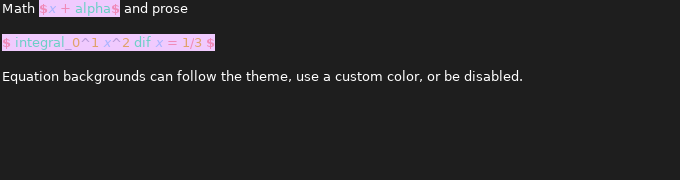
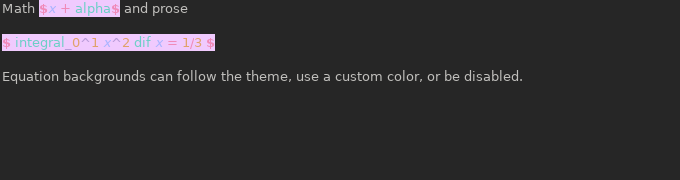
fix: preserve editor palette when customizing equation backgrounds

Changed region(s): [[0.0, 0.3889, 0.7721, 0.4722], [0.1853, 0.0278, 0.2779, 0.0833], [0.0, 0.0278, 0.0618, 0.0833]]

diff --git a/native/gtk/src/ui/equation_style.rs b/native/gtk/src/ui/equation_style.rs
@@ -2,32 +2,82 @@
 use super::model::UiSettings;
 use gtk::gdk;
 
+pub fn parse_color(color: &str) -> Option<gdk::RGBA> {
+    if color.trim().eq_ignore_ascii_case("transparent") {
+        Some(gdk::RGBA::TRANSPARENT)
+    } else {
+        gdk::RGBA::parse(color.trim()).ok()
+    }
+}
+
 pub fn customized_scheme(
     base: &sourceview5::StyleScheme,
     settings: &UiSettings,
 ) -> Option<sourceview5::StyleScheme> {
-    let color = if !settings.equation_highlighting {
-        gdk::RGBA::TRANSPARENT
+    let requested = if !settings.equation_highlighting {
+        None
     } else {
-        gdk::RGBA::parse(settings.equation_highlight_color.trim()).ok()?
+        Some(parse_color(&settings.equation_highlight_color)?)
     };
+    // An empty local style clears the inherited background. Transparent
+    // GtkTextTag backgrounds are painted as black by GTK's Cairo renderer.
+    let background_attribute = match requested.filter(|color| color.alpha() > 0.0) {
+        None => String::new(),
+        Some(color) => {
+            let alpha = color.alpha();
+            let paper = base.style("text")?.background()?;
+            let paper = paper
+                .strip_prefix('#')
+                .filter(|value| value.starts_with("rgb"))
+                .unwrap_or(paper.as_str());
+            let background = gdk::RGBA::parse(paper).ok()?;
+            // Blend alpha before GTK creates its opaque text background tag.
+            let component = |ink: f32, paper: f32| {
+                ((ink * alpha + paper * (1.0 - alpha)) * 255.0).round() as u8
+            };
+            format!(
+                " background=\"#{:02x}{:02x}{:02x}\"",
+                component(color.red(), background.red()),
+                component(color.green(), background.green()),
+                component(color.blue(), background.blue())
+            )
+        }
+    };
+    let metadata: String = ["variant", "light-variant", "dark-variant"]
+        .iter()
+        .filter_map(|name| {
+            base.metadata(name).map(|value| {
+                format!(
+                    "<property name=\"{name}\">{}</property>",
+                    glib::markup_escape_text(&value)
+                )
+            })
+        })
+        .collect();
+    // GtkSourceView generates widget CSS from the child scheme's own text
+    // style. Copy both colors explicitly so prose keeps the base palette.
+    let text_style = base.style("text")?;
+    let text_foreground = text_style
+        .foreground()
+        .map(|value| format!(" foreground=\"{}\"", glib::markup_escape_text(&value)))
+        .unwrap_or_default();
+    let text_background = text_style
+        .background()
+        .map(|value| format!(" background=\"{}\"", glib::markup_escape_text(&value)))
+        .unwrap_or_default();
     let directory = tempfile::tempdir().ok()?;
-    // GtkSourceView recognizes hexadecimal colors, but interprets rgb()/rgba()
-    // strings as named scheme colors. Canonical hex also cannot inject XML.
-    let color = format!(
-        "#{:02x}{:02x}{:02x}{:02x}",
-        (color.red() * 255.0).round() as u8,
-        (color.green() * 255.0).round() as u8,
-        (color.blue() * 255.0).round() as u8,
-        (color.alpha() * 255.0).round() as u8,
-    );
     let xml = format!(
         r#"<?xml version="1.0"?>
 <style-scheme id="typsmthng-custom-equations" name="Custom equations" version="1.0" parent-scheme="{}">
-  <style name="typst:math" background="{}"/>
+  <metadata>{}</metadata>
+  <style name="text"{}{}/>
+  <style name="typst:math"{}/>
 </style-scheme>"#,
         base.id(),
-        color,
+        metadata,
+        text_foreground,
+        text_background,
+        background_attribute,
     );
     std::fs::write(directory.path().join("equations.xml"), xml).ok()?;
     let manager = sourceview5::StyleSchemeManager::new();
@@ -48,12 +98,7 @@ mod tests {
     use super::*;
     use sourceview5::prelude::*;
 
-    fn capture_if_requested(window: &gtk::Window, editor: &sourceview5::View, name: &str) {
-        let Some(directory) = std::env::var_os("TYPSMTHNG_SNAPSHOT_DIR") else {
-            return;
-        };
-        let directory = std::path::PathBuf::from(directory);
-        std::fs::create_dir_all(&directory).unwrap();
+    fn rendered_texture(window: &gtk::Window, editor: &sourceview5::View) -> gdk::Texture {
         let context = glib::MainContext::default();
         let until = std::time::Instant::now() + std::time::Duration::from_millis(60);
         while std::time::Instant::now() < until {
@@ -69,14 +114,57 @@ mod tests {
             .renderer()
             .unwrap()
             .render_texture(frame.to_node().unwrap(), None)
-            .save_to_png(directory.join(name))
-            .unwrap();
+    }
+
+    fn capture_if_requested(texture: &gdk::Texture, name: &str) {
+        let Some(directory) = std::env::var_os("TYPSMTHNG_SNAPSHOT_DIR") else {
+            return;
+        };
+        let directory = std::path::PathBuf::from(directory);
+        std::fs::create_dir_all(&directory).unwrap();
+        texture.save_to_png(directory.join(name)).unwrap();
+    }
+
+    fn background_pixel(
+        texture: &gdk::Texture,
+        editor: &sourceview5::View,
+        offset: i32,
+    ) -> [u8; 4] {
+        let rectangle = editor.iter_location(&editor.buffer().iter_at_offset(offset));
+        let (x, y) = editor.buffer_to_window_coords(
+            gtk::TextWindowType::Widget,
+            rectangle.x() + rectangle.width() / 2,
+            rectangle.y() + rectangle.height() / 2,
+        );
+        let mut pixels = vec![0; (texture.width() * texture.height() * 4) as usize];
+        let stride = texture.width() as usize * 4;
+        texture.download(&mut pixels, stride);
+        pixels[y as usize * stride + x as usize * 4..][..4]
+            .try_into()
+            .unwrap()
+    }
+
+    fn prose_pixels(texture: &gdk::Texture, editor: &sourceview5::View) -> Vec<u8> {
+        let end = editor.iter_location(&editor.buffer().iter_at_offset(4));
+        let (width, _) =
+            editor.buffer_to_window_coords(gtk::TextWindowType::Widget, end.x() + end.width(), 0);
+        let stride = texture.width() as usize * 4;
+        let mut pixels = vec![0; stride * texture.height() as usize];
+        texture.download(&mut pixels, stride);
+        pixels
+            .chunks_exact(stride)
+            .take(end.height() as usize)
+            .flat_map(|row| row[..width as usize * 4].iter().copied())
+            .collect()
     }
 
     #[test]
     #[ignore = "requires a display; run one exact filter under Xvfb"]
     fn native_equation_background_settings_preserve_token_styles() {
         adw::init().unwrap();
+        gtk::Settings::default()
+            .unwrap()
+            .set_gtk_enable_animations(false);
         super::super::install_css();
         sourceview5::init();
         let schemes = sourceview5::StyleSchemeManager::default();
@@ -104,25 +192,34 @@ mod tests {
             assert!(customized_scheme(&base, &UiSettings::default()).is_none());
             buffer.set_style_scheme(Some(&base));
             buffer.ensure_highlight(&buffer.start_iter(), &buffer.end_iter());
-            capture_if_requested(
-                &highlighted_window,
-                &highlighted_editor,
-                &format!("{id}-equations-default.png"),
-            );
-            for (enabled, custom, expected) in
-                [(false, "", "rgba(0,0,0,0)"), (true, "#f0cafe", "#f0cafe")]
-            {
+            let baseline = rendered_texture(&highlighted_window, &highlighted_editor);
+            let prose_background = background_pixel(&baseline, &highlighted_editor, 4);
+            capture_if_requested(&baseline, &format!("{id}-equations-default.png"));
+            let background = base.style("text").unwrap().background().unwrap();
+            for (enabled, custom, expected) in [
+                (false, "", background.as_str()),
+                (true, "transparent", background.as_str()),
+                (true, "#f0cafe", "#f0cafe"),
+            ] {
                 let settings = UiSettings {
                     equation_highlighting: enabled,
                     equation_highlight_color: custom.into(),
                     ..UiSettings::default()
                 };
-                let scheme = customized_scheme(&base, &settings).unwrap();
-                let style = scheme.style("typst:math").unwrap();
-                assert_eq!(
-                    gdk::RGBA::parse(style.background().unwrap()).unwrap(),
-                    gdk::RGBA::parse(expected).unwrap()
-                );
+                let scheme = customized_scheme(&base, &settings)
+                    .unwrap_or_else(|| panic!("{id} {custom:?} enabled={enabled}"));
+                if !enabled || custom == "transparent" {
+                    assert!(scheme
+                        .style("typst:math")
+                        .and_then(|style| style.background())
+                        .is_none());
+                } else {
+                    let style = scheme.style("typst:math").unwrap();
+                    assert_eq!(
+                        gdk::RGBA::parse(style.background().unwrap()).unwrap(),
+                        gdk::RGBA::parse(expected).unwrap()
+                    );
+                }
                 assert_eq!(
                     scheme.style("typst:math-symbol").unwrap().foreground(),
                     base.style("typst:math-symbol").unwrap().foreground()
@@ -130,17 +227,50 @@ mod tests {
                 buffer.set_style_scheme(Some(&scheme));
                 buffer.ensure_highlight(&buffer.start_iter(), &buffer.end_iter());
                 let tags = buffer.iter_at_offset(10).tags();
-                assert!(tags.iter().any(|tag| tag.is_background_set()
-                    && tag.background_rgba() == Some(gdk::RGBA::parse(expected).unwrap())));
+                if enabled && custom != "transparent" {
+                    assert!(tags.iter().any(|tag| tag.is_background_set()
+                        && tag.background_rgba() == Some(gdk::RGBA::parse(expected).unwrap())));
+                } else {
+                    assert!(tags.iter().all(|tag| !tag.is_background_set()));
+                }
                 assert!(tags.iter().any(|tag| tag.is_foreground_set()));
+                let texture = rendered_texture(&highlighted_window, &highlighted_editor);
+                assert_eq!(
+                    background_pixel(&texture, &highlighted_editor, 4),
+                    prose_background,
+                    "customizing equations must preserve baseline prose background in {id}"
+                );
+                assert!(
+                    prose_pixels(&texture, &highlighted_editor)
+                        == prose_pixels(&baseline, &highlighted_editor),
+                    "customizing equations must preserve prose glyph colors and background in {id}"
+                );
+                if !enabled || custom == "transparent" {
+                    assert_eq!(
+                        background_pixel(&texture, &highlighted_editor, 7),
+                        background_pixel(&texture, &highlighted_editor, 4),
+                        "disabled or transparent equations must match prose background in {id}"
+                    );
+                }
                 capture_if_requested(
-                    &highlighted_window,
-                    &highlighted_editor,
+                    &texture,
                     &format!(
                         "{id}-equations-{}.png",
                         if enabled { "custom" } else { "disabled" }
                     ),
                 );
+            }
+            let half_alpha = UiSettings {
+                equation_highlight_color: "rgba(255, 255, 255, 0.5)".into(),
+                ..UiSettings::default()
+            };
+            buffer.set_style_scheme(customized_scheme(&base, &half_alpha).as_ref());
+            buffer.ensure_highlight(&buffer.start_iter(), &buffer.end_iter());
+            let blended = rendered_texture(&highlighted_window, &highlighted_editor);
+            let math_background = background_pixel(&blended, &highlighted_editor, 7);
+            for channel in 0..3 {
+                assert!((i16::from(math_background[channel]) - (i16::from(prose_background[channel]) + 255) / 2).abs() <= 1,
+                    "half-alpha equation backgrounds should blend into baseline prose background in {id}");
             }
             let invalid = UiSettings {
                 equation_highlight_color: "invalid\"/>".into(),

diff --git a/native/gtk/src/ui/workspace.rs b/native/gtk/src/ui/workspace.rs
@@ -3398,7 +3398,7 @@ fn build_settings_dialog(
     equation_highlight_color.set_sensitive(settings.borrow().equation_highlighting);
     group.add(&setting_row(
         "Equation background",
-        "CSS color, such as #f4f1fb; clear to follow the theme",
+        "Color, such as #f4f1fb; clear to follow the theme",
         &equation_highlight_color,
     ));
     equation_highlighting.connect_active_notify({
@@ -3565,11 +3565,11 @@ fn build_settings_dialog(
             let equation_color = equation_highlight_color.text().trim().to_string();
             if equation_highlighting.is_active()
                 && !equation_color.is_empty()
-                && gtk::gdk::RGBA::parse(&equation_color).is_err()
+                && super::equation_style::parse_color(&equation_color).is_none()
             {
                 equation_highlight_color.add_css_class("error");
                 equation_highlight_color.set_tooltip_text(Some(
-                    "Enter a CSS color, such as #f4f1fb, or clear for the theme default",
+                    "Enter a color, such as #f4f1fb, or clear for the theme default",
                 ));
                 equation_highlight_color.grab_focus();
                 return;
